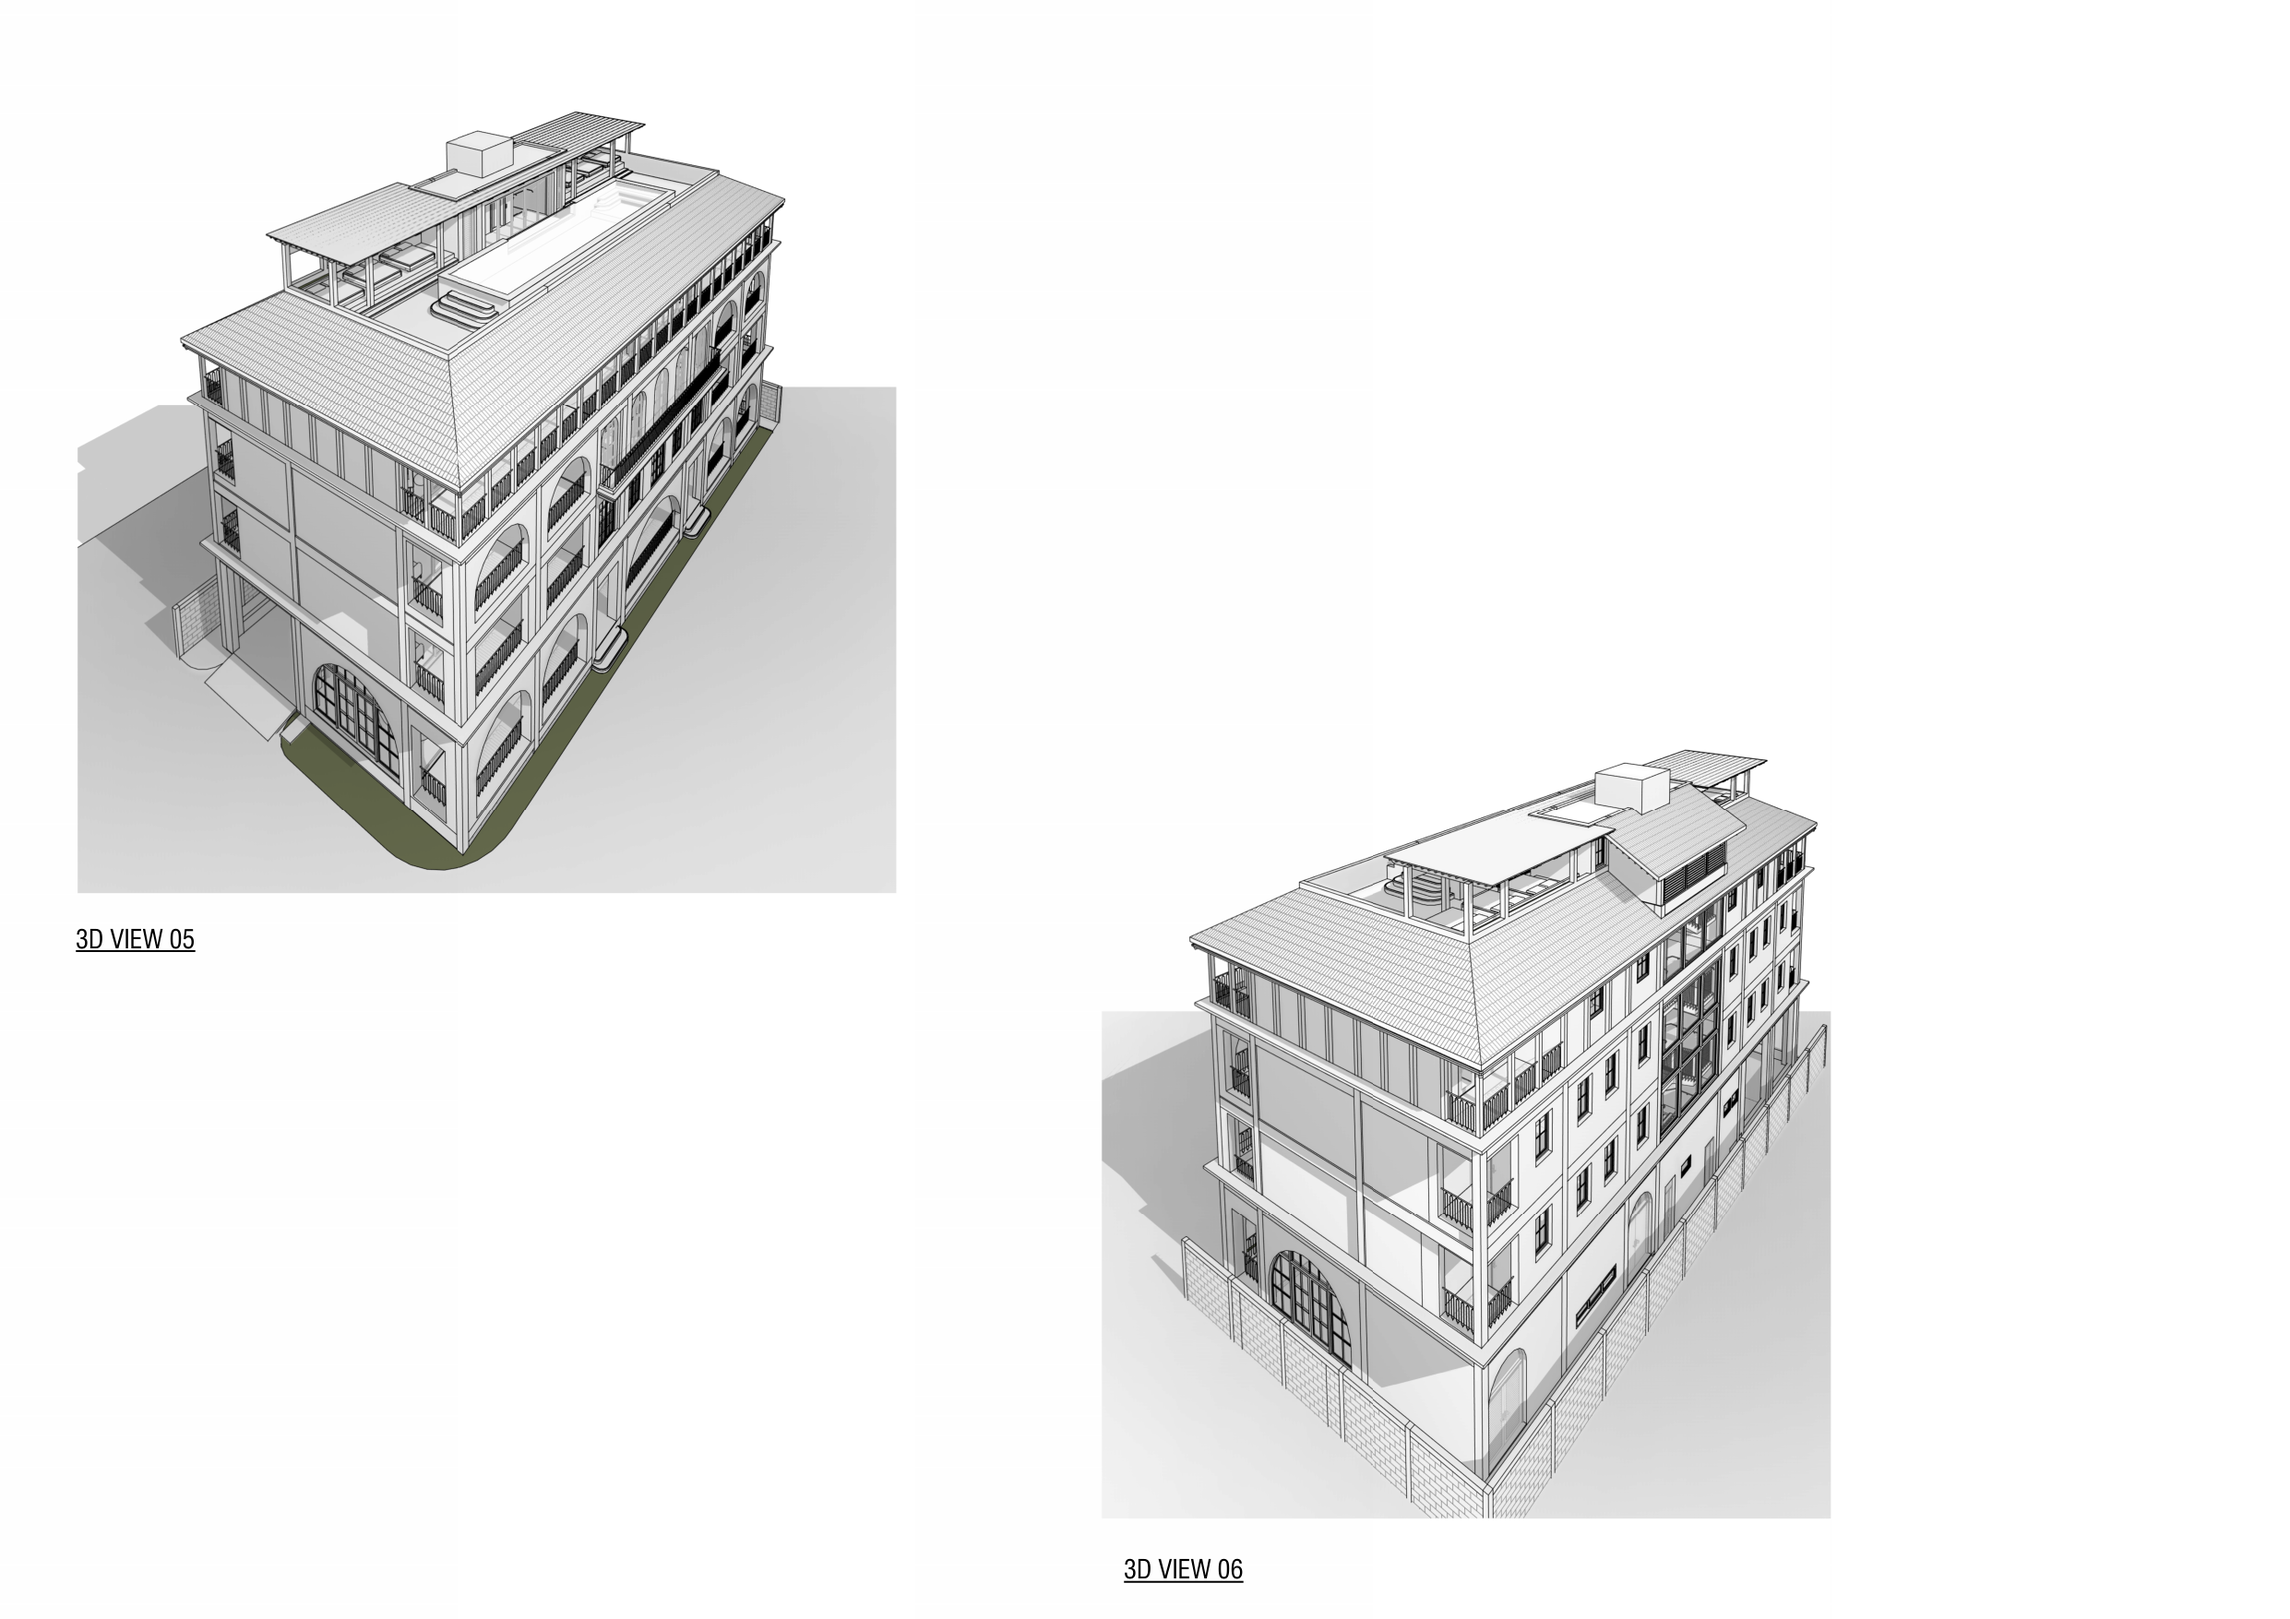
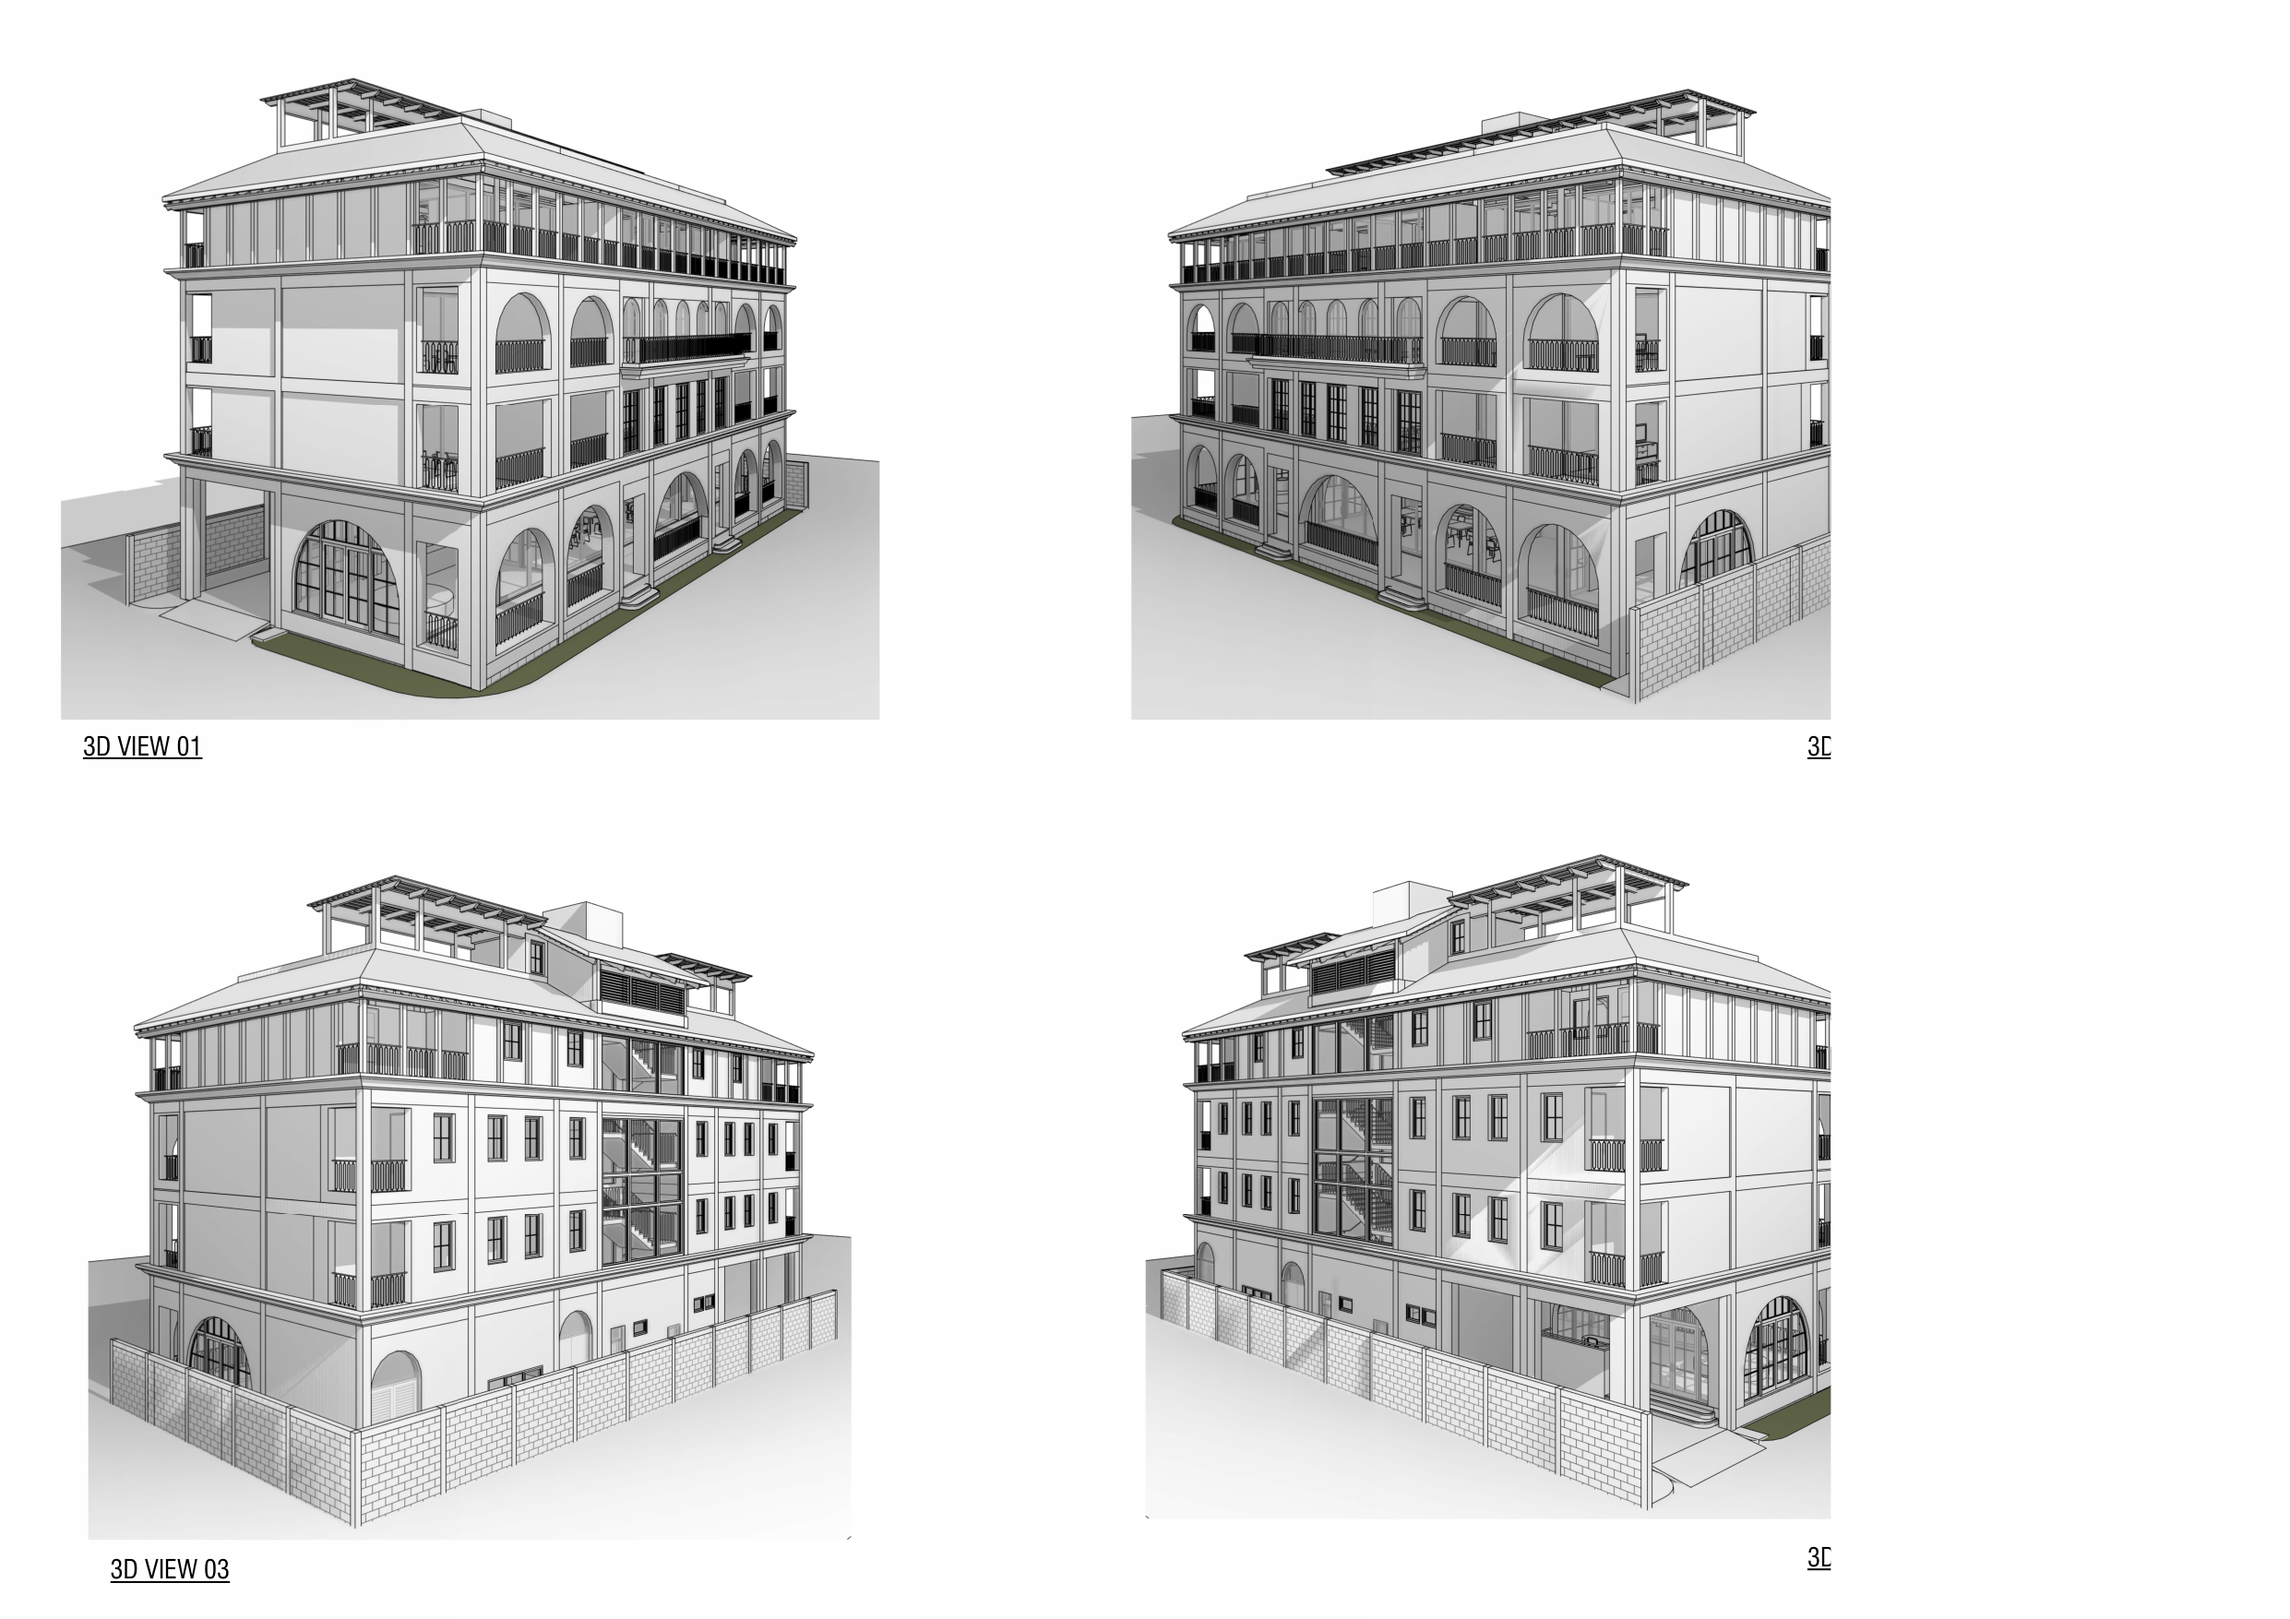
feat(projects): set 4-view 3D isometric sheets as primary showcase for all 5 projects

diff --git a/js/main.js b/js/main.js
@@ -144,7 +144,7 @@ function renderProjects(filter = 'all') {
         <div class="project-video-preview" style="position: relative; overflow: hidden; border-radius: 8px 8px 0 0; background: #0b1120; border-bottom: 1px solid rgba(255,255,255,0.08);">
           <img src="${proj.image}" alt="${proj.title}" style="width: 100%; height: 165px; object-fit: cover; display: block;" />
           <span style="position: absolute; top: 10px; right: 10px; background: rgba(15, 23, 42, 0.88); backdrop-filter: blur(4px); color: ${proj.isAi === false ? '#34d399' : '#38bdf8'}; font-size: 0.68rem; font-weight: 700; padding: 3px 8px; border-radius: 4px; border: 1px solid ${proj.isAi === false ? 'rgba(52, 211, 153, 0.4)' : 'rgba(56, 189, 248, 0.4)'}; letter-spacing: 0.05em;">
-            <i class="${proj.isAi === false ? 'fas fa-drafting-compass' : 'fas fa-robot'}" style="font-size: 0.55rem; margin-right: 4px; color: ${proj.isAi === false ? '#34d399' : '#38bdf8'};"></i> ${proj.isAi === false ? 'PARAMETRIC BIM' : 'AI RENDER'}
+            <i class="${proj.isAi === false ? 'fas fa-drafting-compass' : 'fas fa-robot'}" style="font-size: 0.55rem; margin-right: 4px; color: ${proj.isAi === false ? '#34d399' : '#38bdf8'};"></i> ${proj.isAi === false ? 'REVIT 3D MODEL' : 'AI RENDER'}
           </span>
         </div>
       ` : `
@@ -389,9 +389,9 @@ function openProjectModal(projectId) {
     <div class="modal-section" style="margin-top: 16px; margin-bottom: 16px; background: #0b1120; border: 1px solid rgba(255,255,255,0.12); border-radius: 8px; padding: 14px; text-align: center;">
       <div style="display: flex; align-items: center; justify-content: space-between; margin-bottom: 10px; padding-bottom: 8px; border-bottom: 1px solid rgba(255,255,255,0.06);">
         <span style="font-size: 0.75rem; text-transform: uppercase; letter-spacing: 0.08em; color: ${proj.isAi === false ? '#34d399' : '#38bdf8'}; font-family: monospace;">
-          <i class="${proj.isAi === false ? 'fas fa-drafting-compass' : 'fas fa-robot'}"></i> ${proj.isAi === false ? 'Authentic Parametric Revit Family Architecture' : 'AI-Generated Architectural Render'}
+          <i class="${proj.isAi === false ? 'fas fa-drafting-compass' : 'fas fa-robot'}"></i> ${proj.isAi === false ? 'Authentic Revit Production Model - 3D Views' : 'AI-Generated Architectural Render'}
         </span>
-        <span class="badge ${proj.isAi === false ? 'badge-emerald' : 'badge-cyan'}" style="font-size: 0.7rem;"><i class="fas fa-check-circle"></i> ${proj.isAi === false ? '100% Handcrafted BIM' : 'From Revit Elevations'}</span>
+        <span class="badge ${proj.isAi === false ? 'badge-emerald' : 'badge-cyan'}" style="font-size: 0.7rem;"><i class="fas fa-check-circle"></i> ${proj.isAi === false ? '100% Revit Production Model' : 'From Revit Elevations'}</span>
       </div>
       <img src="${proj.image}" alt="${proj.title}" style="max-width: 100%; height: auto; border-radius: 6px; box-shadow: 0 4px 16px rgba(0,0,0,0.5); border: 1px solid rgba(255,255,255,0.08);" />
       ${proj.aiNote ? `<p style="font-size: 0.78rem; color: #94a3b8; margin-top: 8px; font-style: italic;">Note: ${proj.aiNote}</p>` : ''}

diff --git a/js/projects-data.js b/js/projects-data.js
@@ -307,7 +307,7 @@ const portfolioData = {
       title: "Multi-Storey Residential Complex (Henbadhoo Hiya)",
       badge: "02 | Architectural Package (20 Sheets)",
       subtitle: "Full Architectural Working Drawings | Floor Plans, Elevations & Technical Sections",
-      image: "assets/images/henbadhoo_ground_floor.png",
+      image: "assets/images/henbadhoo_3d_sheet.png",
       pdfDoc: "assets/docs/02_HENBEDHOO_HIYA_20_Sheets.pdf",
       sheets: "20 Vector Drawing Sheets",
       isAi: false,
@@ -327,7 +327,7 @@ const portfolioData = {
       title: "Resort Pool Bar & Pavilion Structure (Block 04)",
       badge: "03 | Hospitality Architecture (24 Sheets)",
       subtitle: "Curved Pavilion Modeling, Open-Air Timber Framing & Detailed GA Drawing Package",
-      image: "assets/images/pool_bar_typical_details.png",
+      image: "assets/images/pool_bar_3d_sheet.png",
       pdfDoc: "assets/docs/03_ROOM_BLOCK_04_POOL_BAR_24_Sheets.pdf",
       sheets: "24 Vector Drawing Sheets",
       isAi: false,
@@ -347,7 +347,7 @@ const portfolioData = {
       title: "Commercial Retail Building (Block 01)",
       badge: "04 | Commercial Working Drawings (23 Sheets)",
       subtitle: "High-Traffic Retail Architecture | GA Floor Plans, 4-Side Elevations & Building Sections",
-      image: "assets/images/retail_ground_floor.png",
+      image: "assets/images/retail_3d_sheet.png",
       pdfDoc: "assets/docs/04_ROOM_BLOCK_01_RETAIL_23_Sheets.pdf",
       sheets: "23 Vector Drawing Sheets",
       isAi: false,
@@ -369,8 +369,8 @@ const portfolioData = {
       badge: "05 | Commercial Multi-Story (19 Sheets)",
       subtitle: "Revit Architectural & Structural Modeling | 2D CAD Conversion & Full Working Drawings",
       video: "assets/videos/commercial_office_building.mp4",
-      image: "assets/images/commercial_office_revit_3d_sheet.png",
-      revitSheet: "assets/images/commercial_office_revit_3d_sheet.png",
+      image: "assets/images/cofb_3d_sheet.png",
+      revitSheet: "assets/images/cofb_3d_sheet.png",
       pdfDoc: "assets/docs/05_COFB_OFFICE_BUILDING_19_Sheets.pdf",
       sheets: "19 Vector Drawing Sheets",
       aiNote: "AI-generated conceptual walkthrough synthesized directly from my 2D Revit elevation and section drawing submittals.",
